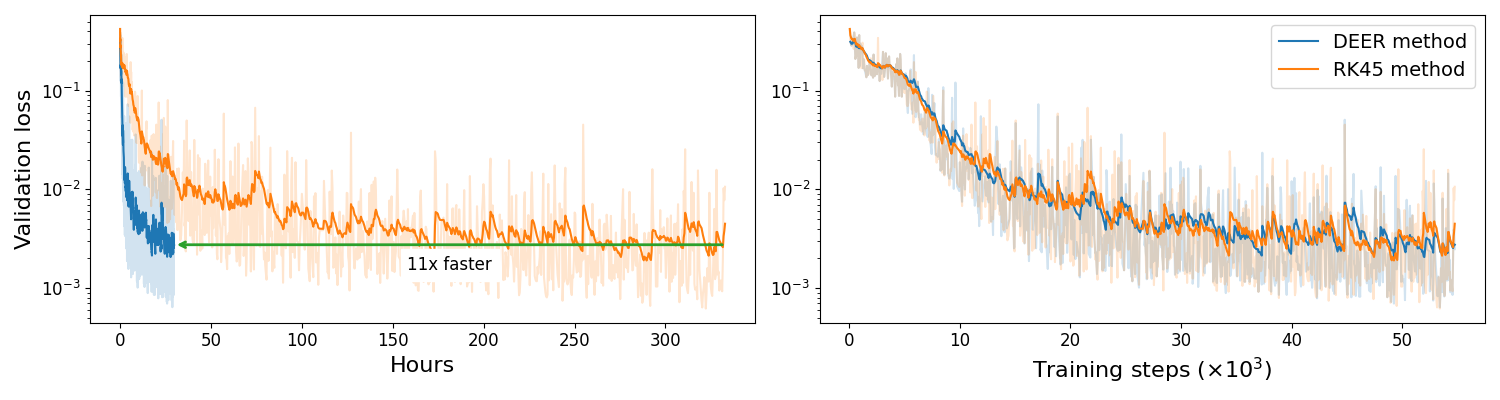
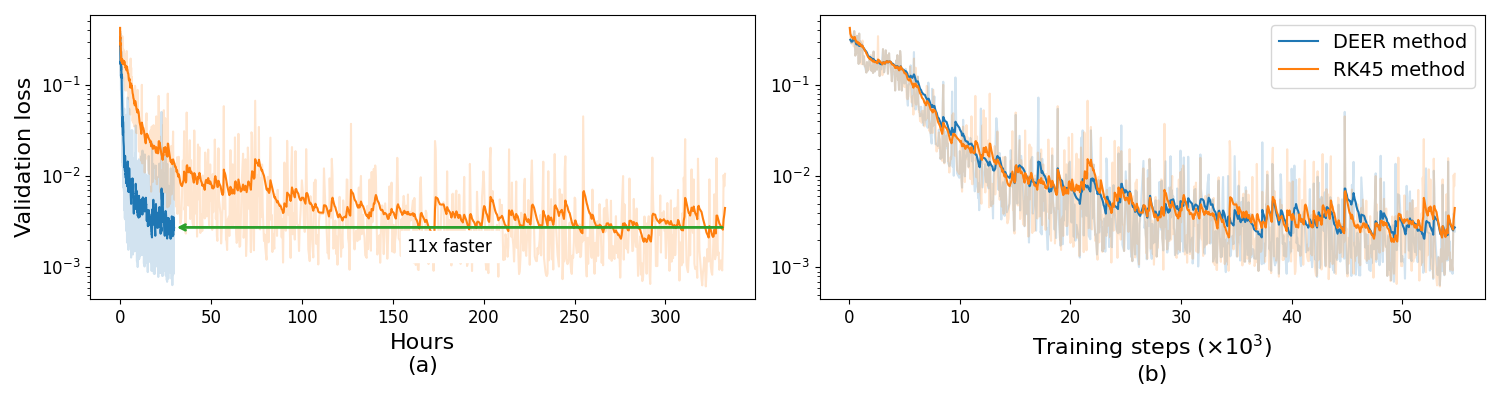
Adding (a) and (b) under the hnn training comparison

diff --git a/deer/experiments/ode_hnn/plot_results.py b/deer/experiments/ode_hnn/plot_results.py
@@ -86,7 +86,7 @@ def main():
     plt.text(arrow_x, arrow_y, "%dx faster" % np.round(naccel), va="top", ha="center", backgroundcolor="w", fontsize=12)
     plt.xticks(fontsize=tick_fontsize)
     plt.yticks(fontsize=tick_fontsize)
-    plt.xlabel("Hours", fontsize=label_fontsize)
+    plt.xlabel("Hours\n(a)", fontsize=label_fontsize)
     plt.ylabel("Validation loss", fontsize=label_fontsize)
 
     plt.subplot(1, 2, 2)
@@ -95,7 +95,7 @@ def main():
     plt.plot(fast_step, fast_smooth, 'C0', label=fast_label)
     plt.plot(slow_step, slow_smooth, 'C1', label=slow_label)
     plt.gca().set_yscale("log")
-    plt.xlabel(r"Training steps ($\times 10^3$)", fontsize=label_fontsize)
+    plt.xlabel(r"Training steps ($\times 10^3$)" + "\n(b)", fontsize=label_fontsize)
     plt.legend(fontsize=legend_fontsize)
     plt.xticks(fontsize=tick_fontsize)
     plt.yticks(fontsize=tick_fontsize)
